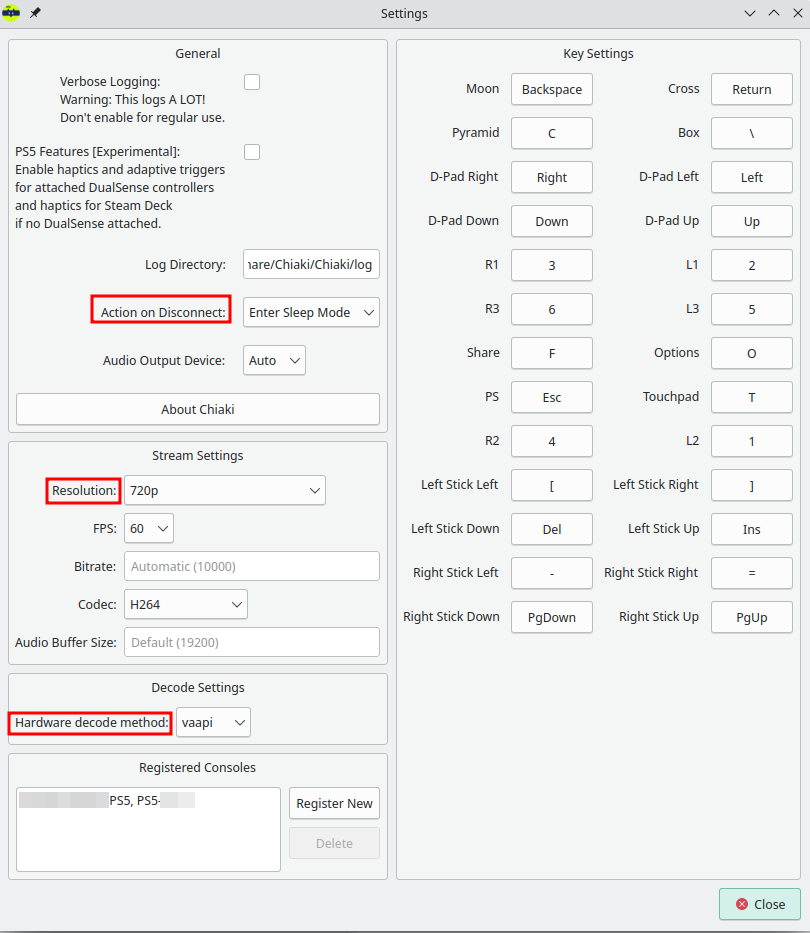
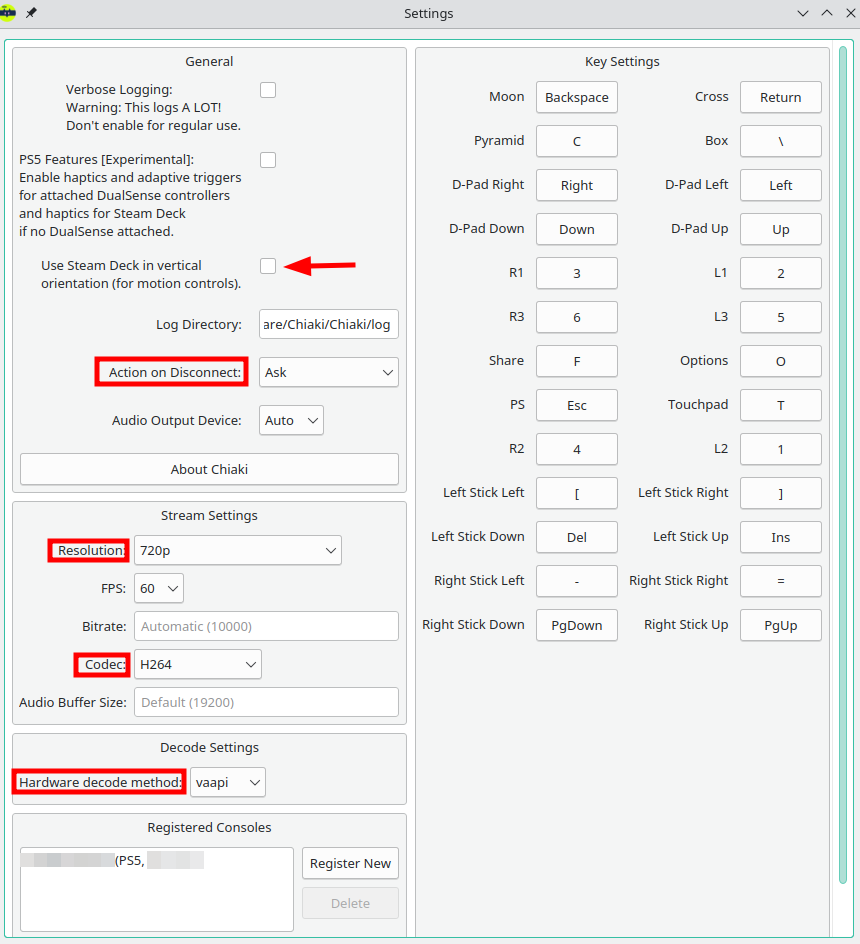
Update docs for release 1.3.2

Changed region(s): [[0.0, 0.0, 1.0, 1.0]]

diff --git a/docs/updates/releases.md b/docs/updates/releases.md
@@ -16,6 +16,15 @@ In order to update your already installed `chiaki4deck` to the newest version, e
 
 ## Releases (Newest First)
 
+### 1.3.2
+
+Small patch release
+
+- disable Steam Deck haptics when external controllers connected
+- add vertical orientation option for motion controls
+- let analog trigger actions work w/out PlayStation features enabled
+- merge update to RGB mapping with HW accelerated graphics from jonibim
+
 ### 1.3.1
 
 Small patch release

diff --git a/docs/setup/configuration.md b/docs/setup/configuration.md
@@ -226,11 +226,15 @@ Here are different settings you can use for Chiaki/`chiaki4deck` depending on yo
 
         ![720p Settings](images/720P_Settings.png)
 
+    !!! Info "Use Steam Deck in Vertical Orientation"
+
+        For Steam Deck, this enables the option to use the Steam Deck in vertical orientation in games that assume a horizontal controller for motion controls. Since most PlayStation games assume a horizontal facing controller, (even though data is sent for using the controller in any orientation) most games only work if the Steam Deck is horizontal (like you would hold a DualSense/DualShock 4 controller). This option enables you to play those games in vertical mode by allowing you to use roll instead of yaw and having a vertical orientation correspond to a horizontal facing controller. Some games, such as Astro's playroom use the orientation values and enable you to use the controller in various different positions (i.e. this option isn't needed for using the controller in vertical orientation for that small subset of games).
+
     !!! Tip "Putting your PlayStation Console to Sleep Automatically"
 
-        For `Action on Disconnect`, choose `Enter Sleep Mode` to automatically put your PlayStation console to sleep as soon as you close your session with ++ctrl+q++ (you will add this shortcut as part of you controller configuration in [controller section](controlling.md){target="_blank" rel="noopener"}). 
+        For `Action on Disconnect`, choose `Ask` (the default) to get prompted (use the touchscreen to respond to prompt window) about putting your PlayStation to sleep when you close your session with ++ctrl+q++ (you will add this shortcut as part of you controller configuration in [controller section](controlling.md){target="_blank" rel="noopener"}). 
         
-        If you prefer, you can also use `Ask` (the default) to get prompted about putting your PlayStation to sleep when you close your session with ++ctrl+q++.
+        If you prefer, you can also use `Enter Sleep Mode` to automatically put your PlayStation console to sleep as soon as you close your session with ++ctrl+q++
 
 ## Performance of Chiaki/`chiaki4deck`
 

diff --git a/docs/updates/done.md b/docs/updates/done.md
@@ -17,7 +17,7 @@ Since these features are expiremental, you need to opt-in via a checkbox in the 
 
 ## Updated RGB Mapping
 
-RGB mapping update thanks to [Egoistically](https://github.com/Egoistically){target="_blank" rel="noopener"} via a [Chiaki fork](https://github.com/Egoistically/chiaki){target="_blank" rel="noopener"} which is of course copy-left under the [GNU Affero General Public License version 3](https://www.gnu.org/licenses/agpl-3.0.html){target="_blank" rel="noopener"} as are all of the other `chiaki4deck` changes. I added the patches to `chiaki4deck` and it results in a more accurate picture. Below is a **BEFORE** and **AFTER** from Ghost of Tsushima.
+RGB mapping update thanks to [Egoistically](https://github.com/Egoistically){target="_blank" rel="noopener"} via a [Chiaki fork](https://github.com/Egoistically/chiaki){target="_blank" rel="noopener"} which is of course copy-left under the [GNU Affero General Public License version 3](https://www.gnu.org/licenses/agpl-3.0.html){target="_blank" rel="noopener"} as are all of the other `chiaki4deck` changes. I added the patches to `chiaki4deck` and it results in a more accurate picture. Joni Bimbashi updated the initial mapping to work with HW acceleration. Below is a **BEFORE** and **AFTER** from Ghost of Tsushima.
 
 !!! example "BEFORE"
 

diff --git a/docs/index.md b/docs/index.md
@@ -55,4 +55,5 @@ Please submit general issues to the [chiaki4deck GitHub](https://github.com/stre
 
 * [Johannes Baiter](https://github.com/jbaiter){target="_blank" rel="noopener"}
 * [Jamie Bartlett](https://github.com/Nikorag?tab=repositories){target="_blank" rel="noopener"}
+* [Joni Bimbashi](https://github.com/jonibim){target="_blank" rel="noopener"}
 * [Street Pea](https://github.com/streetpea){target="_blank" rel="noopener"}